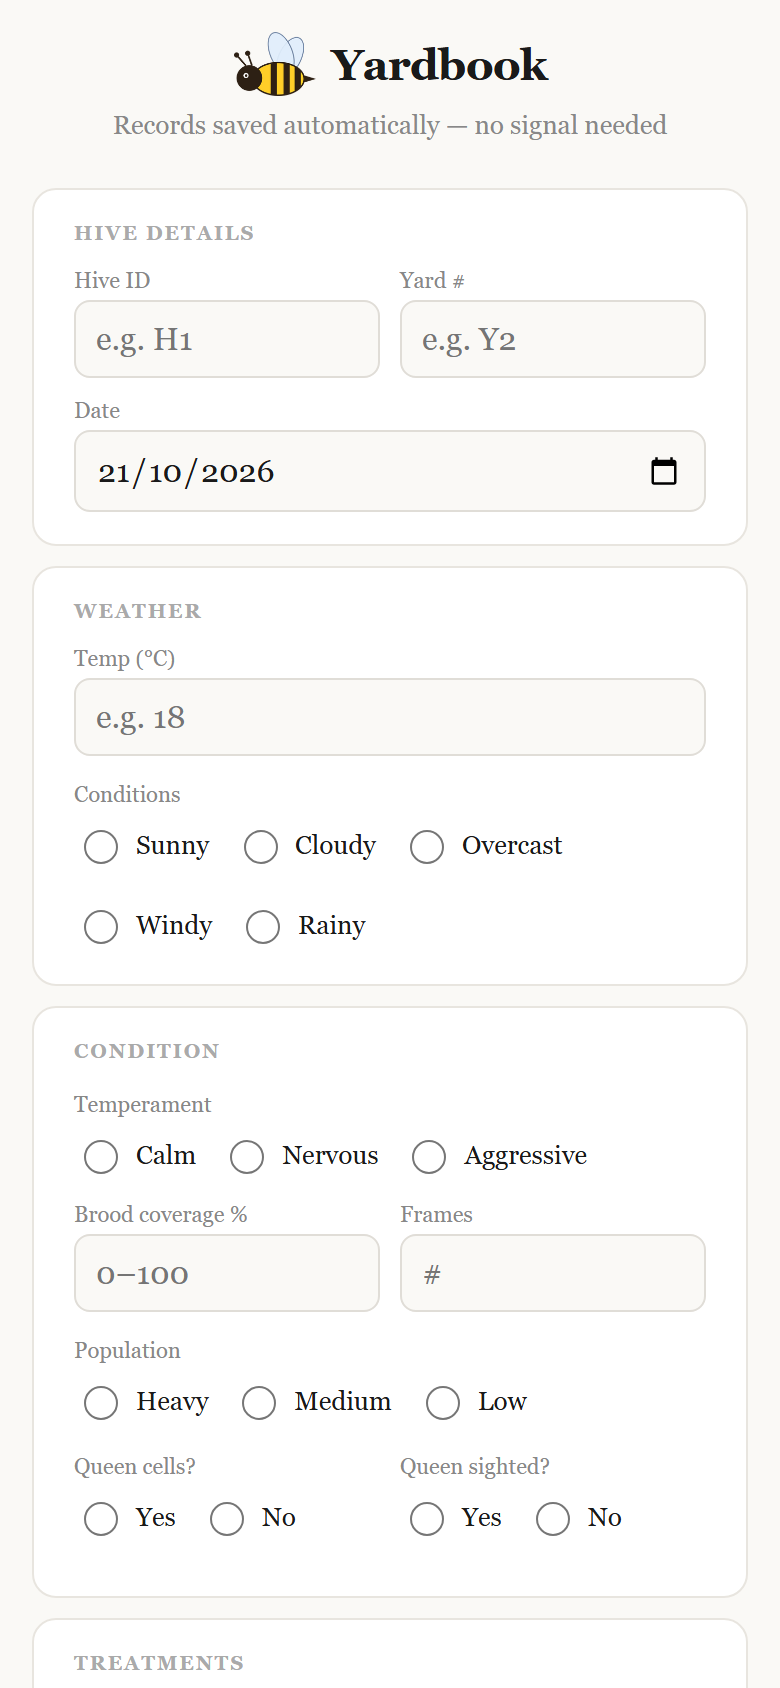
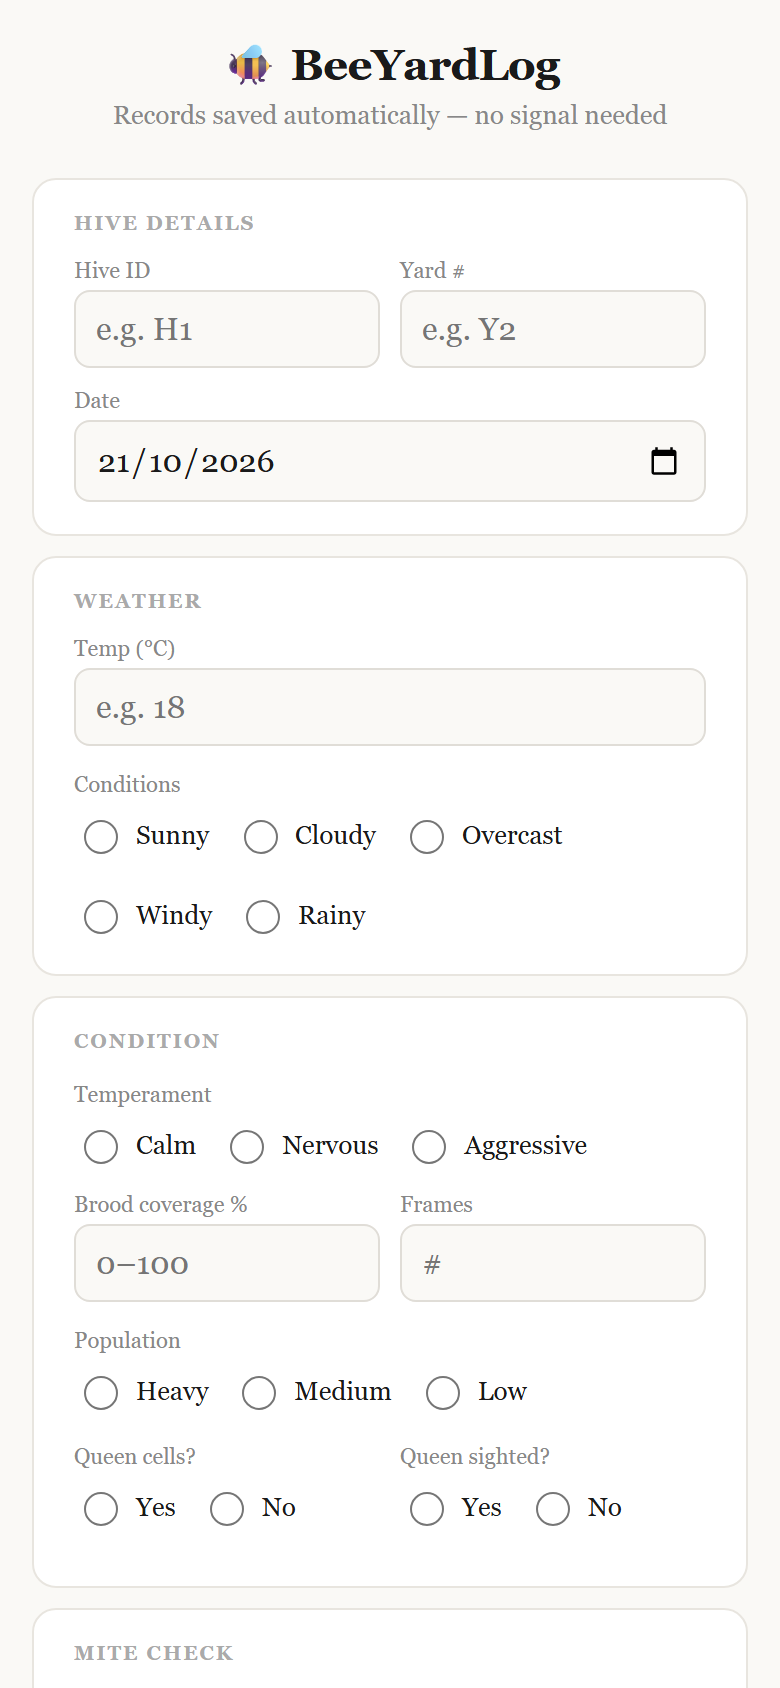
Rename app to BeeYardLog, new screenshots, update README

diff --git a/src/utils/backup.test.js b/src/utils/backup.test.js
@@ -19,19 +19,19 @@ describe("readBackupFile", () => {
 
   it("rejects text that isn't JSON with a friendly message", async () => {
     await expect(readBackupFile(fileOf("not json at all"))).rejects.toThrow(
-      /doesn't look like a Yardbook backup/,
+      /doesn't look like a BeeYardLog backup/,
     );
   });
 
   it("rejects JSON null instead of crashing", async () => {
     await expect(readBackupFile(fileOf("null"))).rejects.toThrow(
-      /doesn't look like a Yardbook backup/,
+      /doesn't look like a BeeYardLog backup/,
     );
   });
 
   it("rejects an object with no inspections list", async () => {
     await expect(readBackupFile(fileOf('{"hello":1}'))).rejects.toThrow(
-      /doesn't look like a Yardbook backup/,
+      /doesn't look like a BeeYardLog backup/,
     );
   });
 

diff --git a/public/sw.js b/public/sw.js
@@ -1,10 +1,10 @@
-// Yardbook service worker: makes the app load with no signal.
+// BeeYardLog service worker: makes the app load with no signal.
 //
 // On install it caches the app shell (index.html plus the hashed JS/CSS
 // files that index.html points at). After that, pages are served network
 // first (so a new deploy shows up) and fall back to the cache offline;
 // everything else is served cache first. Bump CACHE to force a refresh.
-const CACHE = "yardbook-v3";
+const CACHE = "beeyardlog-v4";
 const SHELL = ["/", "/index.html", "/manifest.json"];
 
 self.addEventListener("install", (event) => {

diff --git a/tests/header.spec.js b/tests/header.spec.js
@@ -1,9 +1,9 @@
 import { test, expect } from "@playwright/test";
 
-test("header shows the bee emoji next to the Yardbook title", async ({ page }) => {
+test("header shows the bee emoji next to the BeeYardLog title", async ({ page }) => {
   await page.goto("/");
 
-  const title = page.getByRole("heading", { name: /Yardbook/ });
+  const title = page.getByRole("heading", { name: /BeeYardLog/ });
   await expect(title).toBeVisible();
   await expect(title).toContainText("🐝");
   // The emoji replaced the drawn bee image, so no image should be in the header.

diff --git a/src/utils/backup.js b/src/utils/backup.js
@@ -27,7 +27,7 @@ export function downloadBackup(log) {
 // Reads a backup File, returns the array of inspection rows it contains.
 // Accepts either the { inspections: [...] } wrapper this app writes, or a
 // bare array, so a plain exported array still imports fine.
-const NOT_A_BACKUP = "That file doesn't look like a Yardbook backup.";
+const NOT_A_BACKUP = "That file doesn't look like a BeeYardLog backup.";
 
 const isPlainRow = (r) => r !== null && typeof r === "object" && !Array.isArray(r);
 

diff --git a/index.html b/index.html
@@ -13,8 +13,8 @@
     <meta name="mobile-web-app-capable" content="yes" />
     <meta name="apple-mobile-web-app-capable" content="yes" />
     <meta name="apple-mobile-web-app-status-bar-style" content="default" />
-    <meta name="apple-mobile-web-app-title" content="Yardbook" />
-    <title>Yardbook</title>
+    <meta name="apple-mobile-web-app-title" content="BeeYardLog" />
+    <title>BeeYardLog</title>
   </head>
   <body>
     <div id="root"></div>

diff --git a/src/utils/draft.js b/src/utils/draft.js
@@ -4,6 +4,8 @@
 // Storage is passed in so the logic can be unit tested without a browser.
 import { initialForm } from "./hiveForm.js";
 
+// The key keeps the app's earlier name on purpose: it is where saved drafts
+// already live on people's phones, so renaming it would orphan them.
 export const DRAFT_KEY = "yardbook_form_draft";
 
 // True when nothing has been typed or ticked. The date is ignored because it

diff --git a/src/NavBar/Header.jsx b/src/NavBar/Header.jsx
@@ -3,7 +3,7 @@ import "./Header.css";
 export default function Header({ justSaved }) {
   return (
     <div className="hive-header">
-      <h1 className="hive-header__title">🐝 Yardbook</h1>
+      <h1 className="hive-header__title">🐝 BeeYardLog</h1>
       <p className="hive-header__sub">
         Records saved automatically — no signal needed
       </p>

diff --git a/tests/backup.spec.js b/tests/backup.spec.js
@@ -51,7 +51,7 @@ test("restoring a file that isn't a backup shows a message and changes nothing",
   });
 
   await expect(
-    page.getByText("doesn't look like a Yardbook backup"),
+    page.getByText("doesn't look like a BeeYardLog backup"),
   ).toBeVisible();
   await expect(page.locator(".hive-count-badge")).toHaveText("1");
 });

diff --git a/scripts/make_icons.py b/scripts/make_icons.py
@@ -1,4 +1,4 @@
-"""Generate Yardbook app icons.
+"""Generate BeeYardLog app icons.
 Usage:  python make_icons.py [path/to/your-square-image.png]
 No argument = simple placeholder (green tile, hexagon, YB).
 With an image: it is fitted inside the maskable safe zone (centre 70%) on the green tile,

diff --git a/README.md b/README.md
@@ -1,6 +1,6 @@
-# Yardbook 🐝
+# BeeYardLog 🐝
 
-[![CI](https://github.com/mg20765/yardbook/actions/workflows/ci.yml/badge.svg)](https://github.com/mg20765/yardbook/actions/workflows/ci.yml)
+[![CI](https://github.com/mg20765/beeyardlog/actions/workflows/ci.yml/badge.svg)](https://github.com/mg20765/beeyardlog/actions/workflows/ci.yml)
 
 An offline-first hive inspection logbook for mobile and tablet. No signal needed, no account, no server — everything lives on the device it's used on. Built for beekeepers ranging from a 2-hive hobbyist to a 2,000-hive commercial operation.
 
@@ -12,7 +12,7 @@ Sample data only; the hives shown are made up.
 
 | Inspection form | Inspection log |
 | --- | --- |
-| <img src="docs/screenshots/form.png" alt="The Yardbook inspection form on a phone, with Hive details, Weather and Condition cards" width="300"> | <img src="docs/screenshots/log.png" alt="The inspection log with three entries, the first expanded to show every recorded field" width="300"> |
+| <img src="docs/screenshots/form.png" alt="The BeeYardLog inspection form on a phone, with Hive details, Weather and Condition cards" width="300"> | <img src="docs/screenshots/log.png" alt="The inspection log with three entries, the first expanded to show every recorded field" width="300"> |
 
 | Save check | Storage details |
 | --- | --- |
@@ -22,8 +22,9 @@ Sample data only; the hives shown are made up.
 
 - **Works with no signal.** A service worker caches the app, and every entry is saved on the device.
 - **Doesn't lose your work.** A half-filled form is kept if the page reloads, deletes and "Clear log" ask first, and failed saves show an error instead of failing silently.
+- **Mite check.** Record an alcohol wash or sugar roll and get mites per 100 bees, with a clear hint when a count reaches the treatment threshold.
 - **Protects your data.** JSON backup and restore (with a reminder after 10 new entries), Excel export, and a request to the browser not to clear stored data when the phone runs low on space.
-- **Tested.** 70 unit tests (Vitest) and 23 end-to-end tests (Playwright) run on every push in GitHub Actions.
+- **Tested.** 82 unit tests (Vitest) and 30 end-to-end tests (Playwright) run on every push in GitHub Actions.
 
 ## Getting started
 
@@ -38,8 +39,8 @@ Sample data only; the hives shown are made up.
 
 ```bash
 # 1. Get the code
-git clone https://github.com/mg20765/yardbook.git yardbook
-cd yardbook
+git clone https://github.com/mg20765/beeyardlog.git beeyardlog
+cd beeyardlog
 
 # 2. Install dependencies
 npm install
@@ -55,7 +56,7 @@ Vite prints a local URL (usually `http://localhost:5173`). Open it and the app i
 
 ### Environment variables
 
-Yardbook needs **none** to run: it is offline-first and has no backend. `.env.example` is there as a template and documents the convention (variables must start with `VITE_`, and are public in the browser, so never put secrets in them). `.env` is git-ignored; `.env.example` is committed.
+BeeYardLog needs **none** to run: it is offline-first and has no backend. `.env.example` is there as a template and documents the convention (variables must start with `VITE_`, and are public in the browser, so never put secrets in them). `.env` is git-ignored; `.env.example` is committed.
 
 ### Scripts
 
